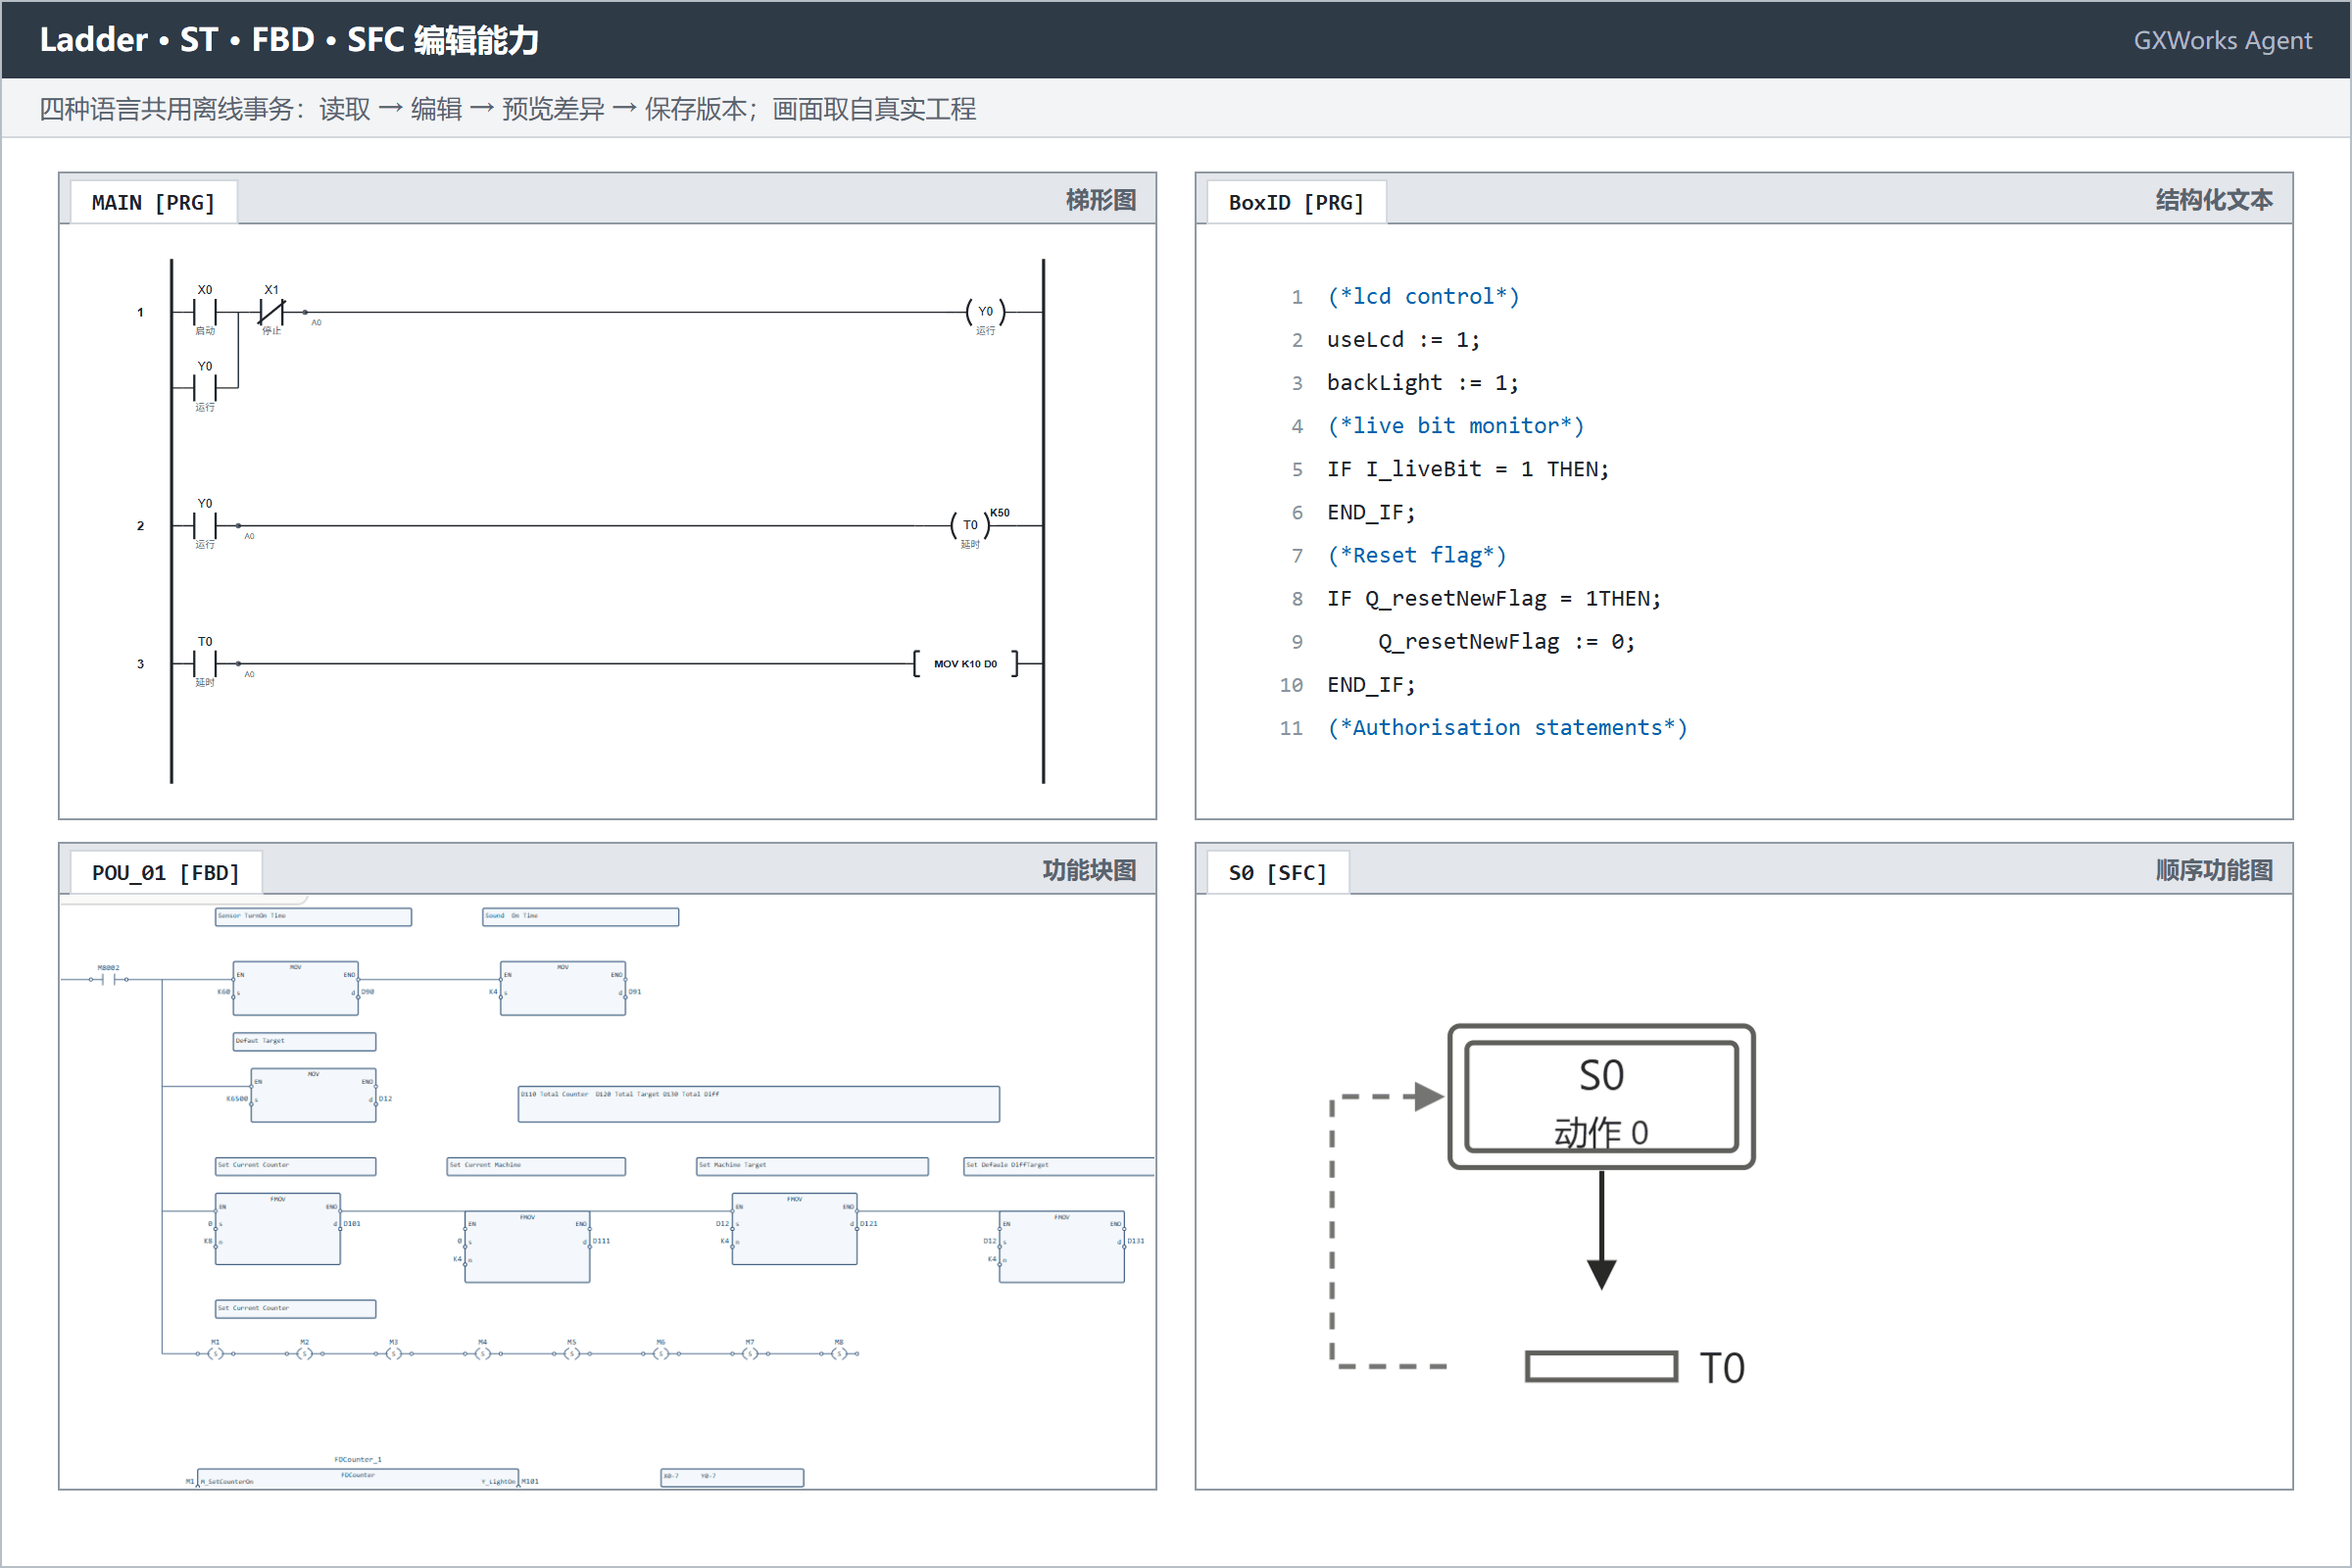
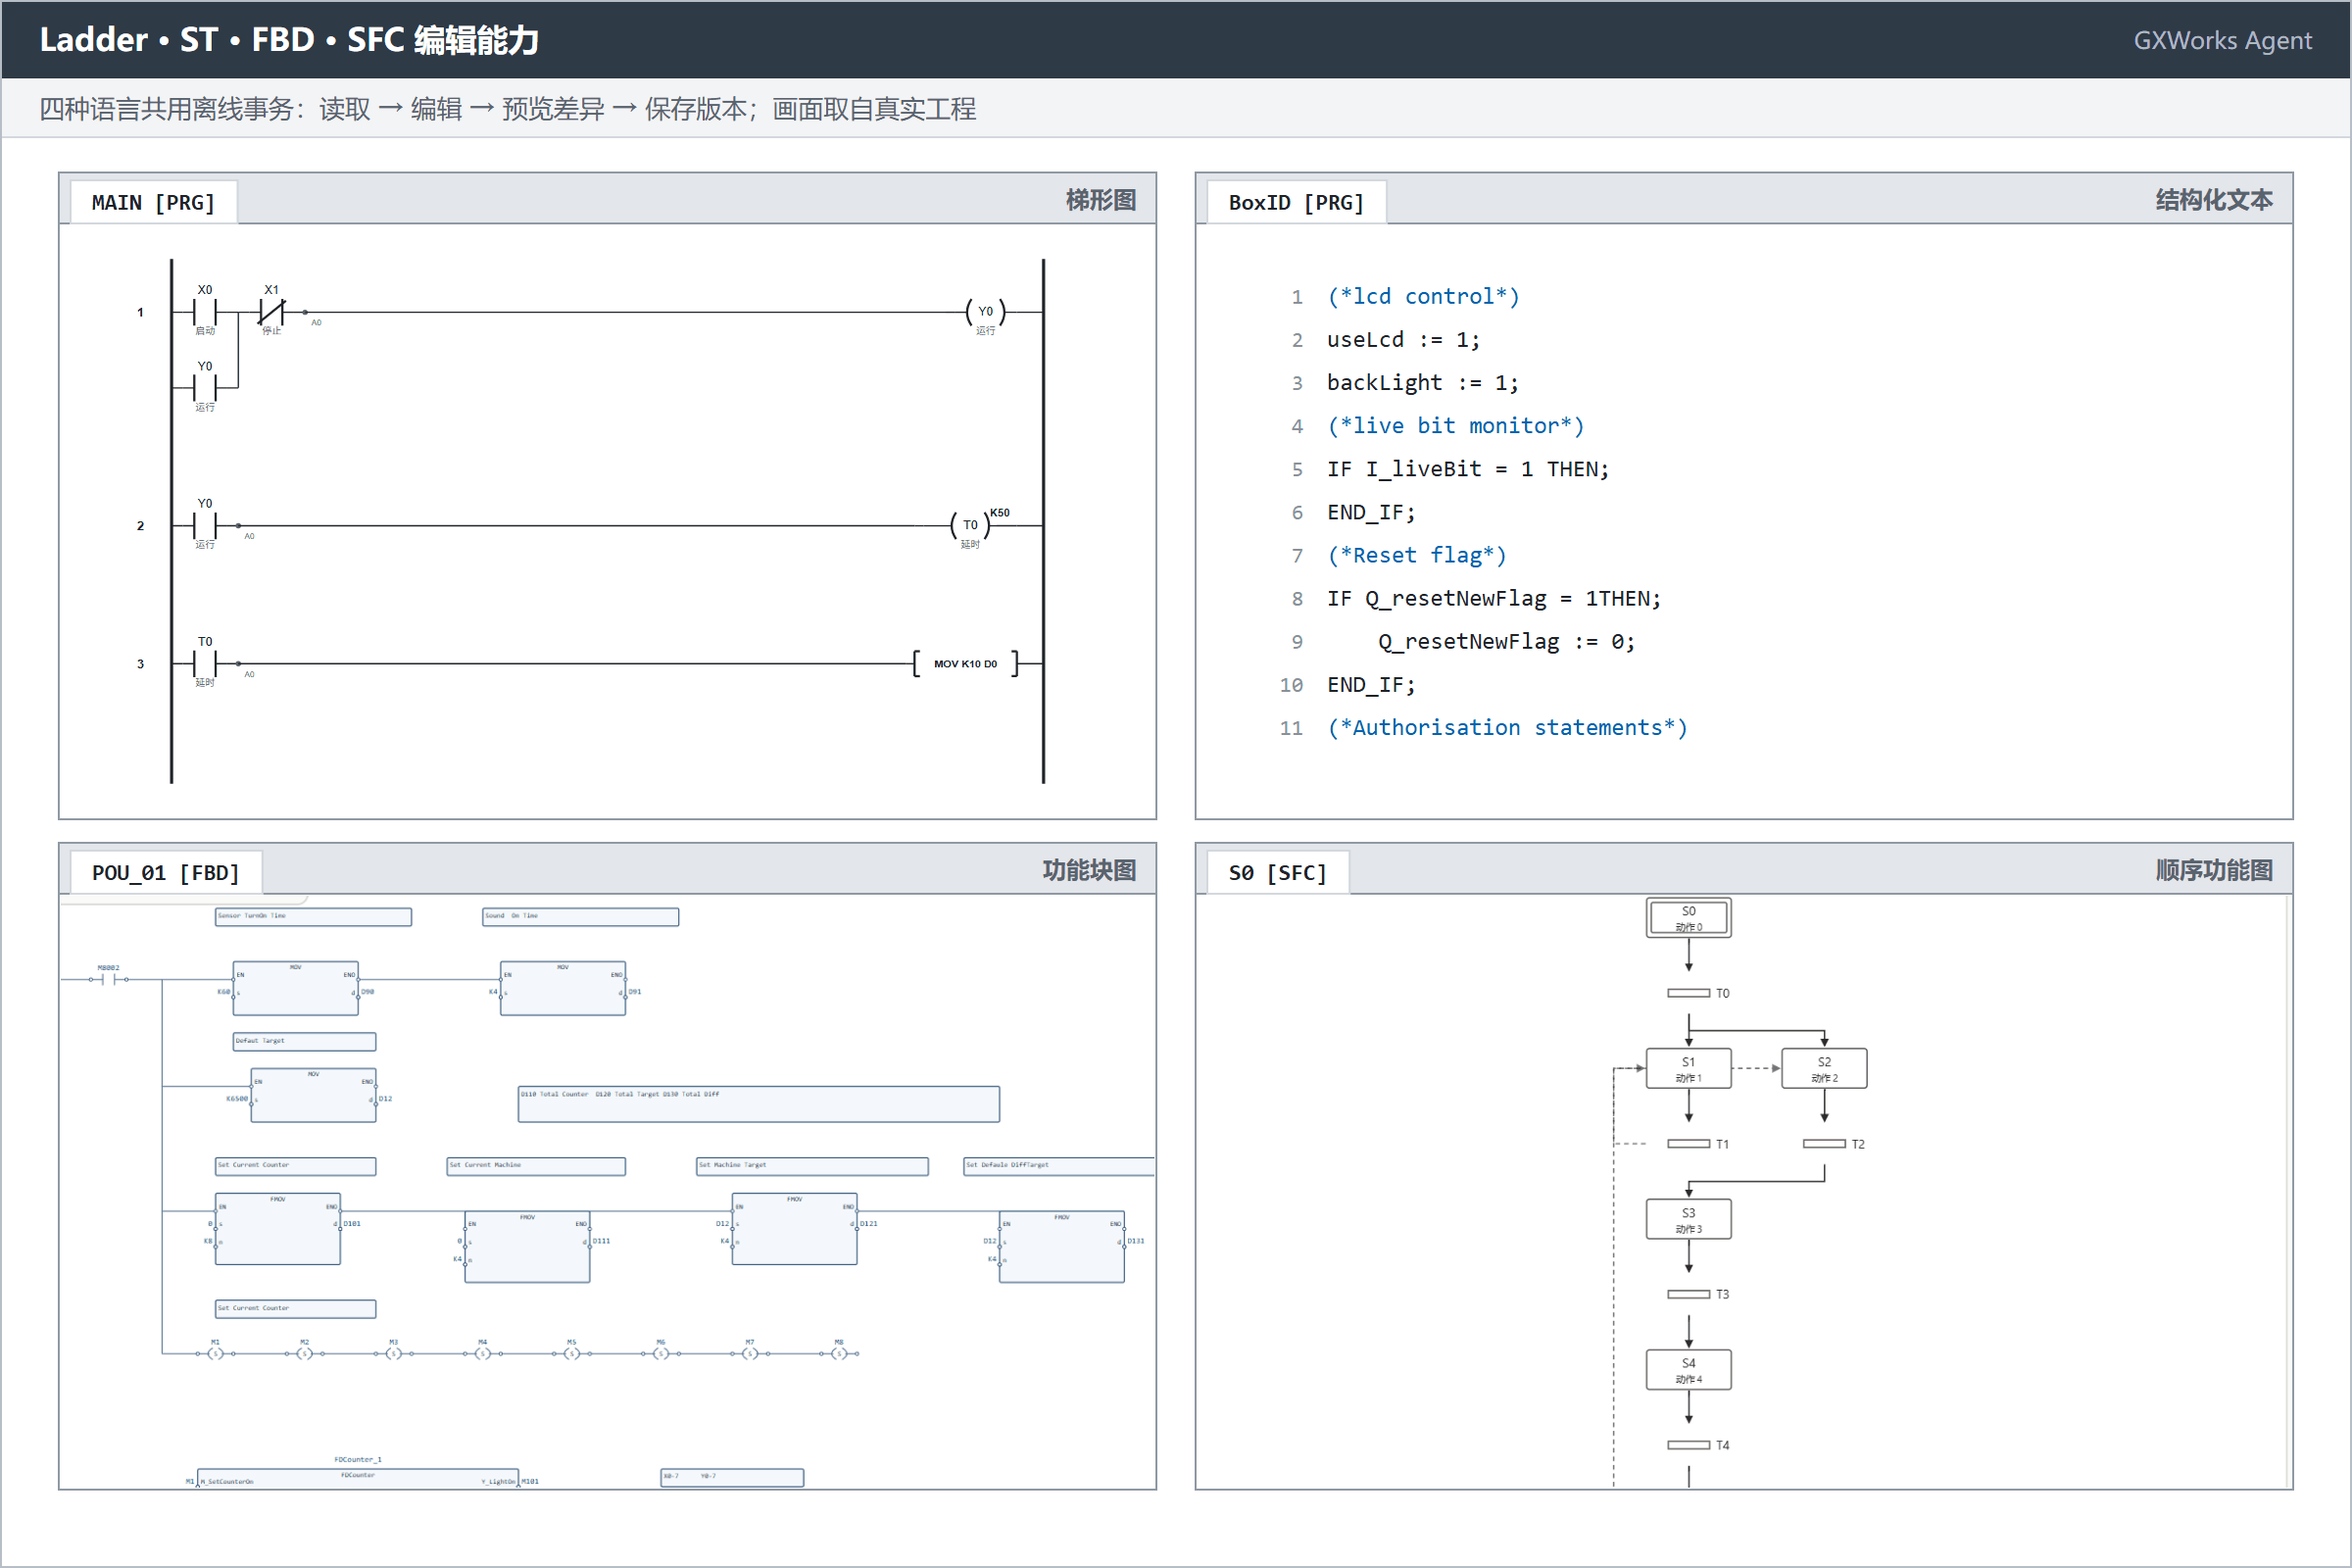
Use a full FX3U SFC chart in the language panes

diff --git a/tools/generate_readme_assets.py b/tools/generate_readme_assets.py
@@ -416,7 +416,7 @@ def feature_languages(lang):
     place_capture(c, ix, iy, iw, ih, 'language-fbd-panel', (0, 470, 1278, 620))
     # SFC: captured chart from a real SFC project
     ix, iy, iw, ih = pane(c, 610, 430, 560, 330, 'S0 [SFC]', kinds[3], lang)
-    place_capture(c, ix, iy, iw, ih, 'language-sfc-panel', (20, 285, 1240, 600))
+    place_capture(c, ix, iy, iw, ih, 'language-sfc2-panel', (30, 235, 1224, 720))
     return c
 
 
